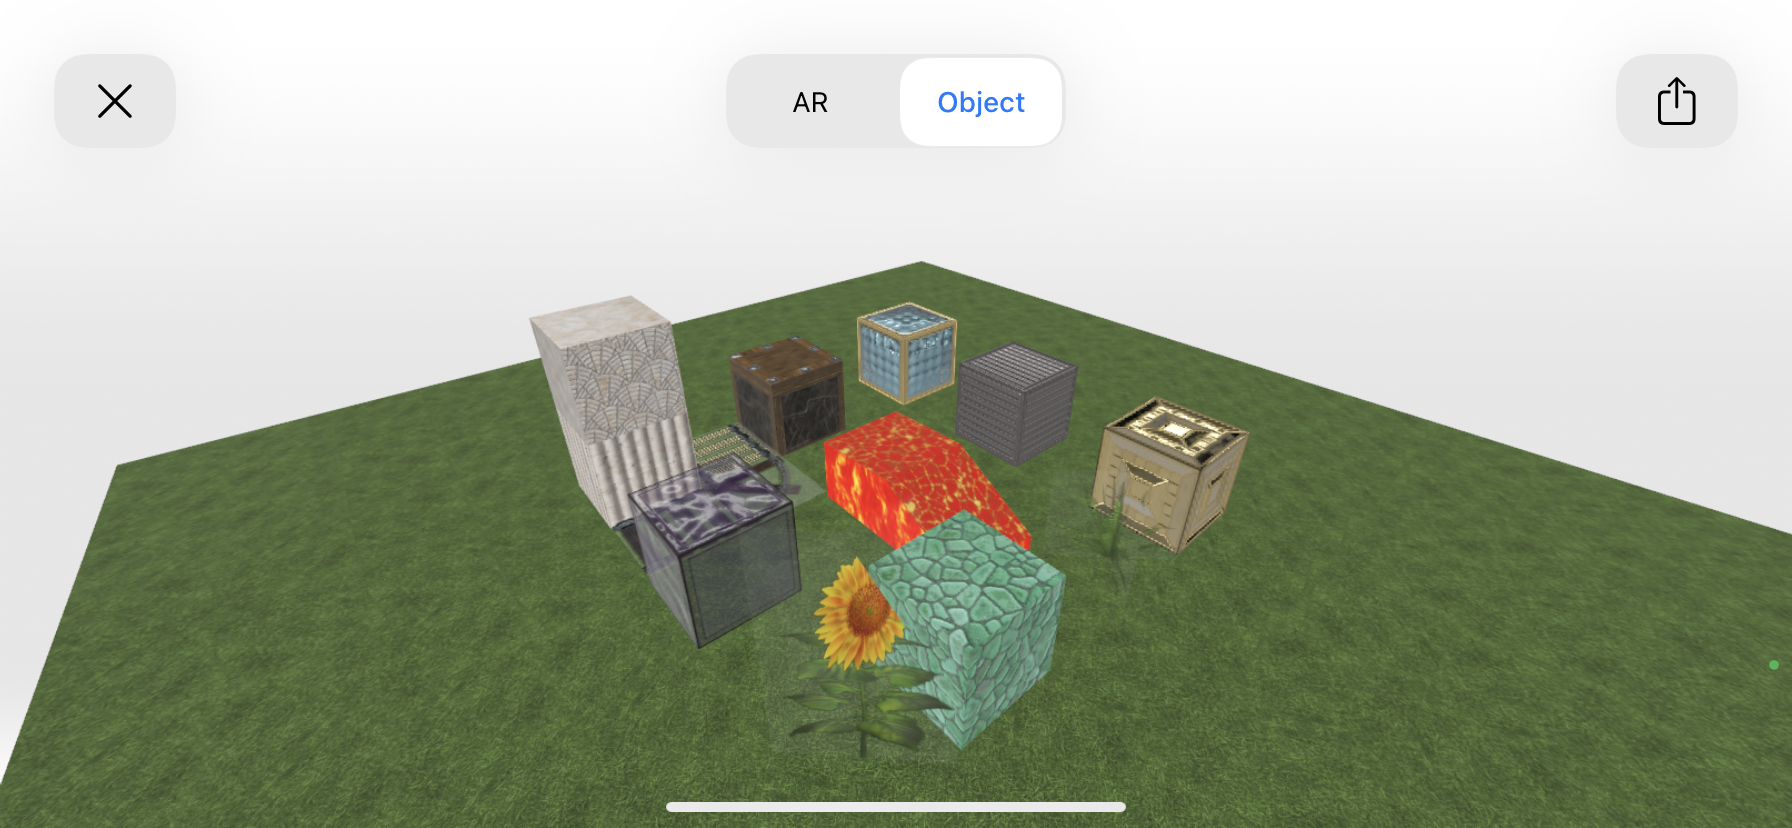
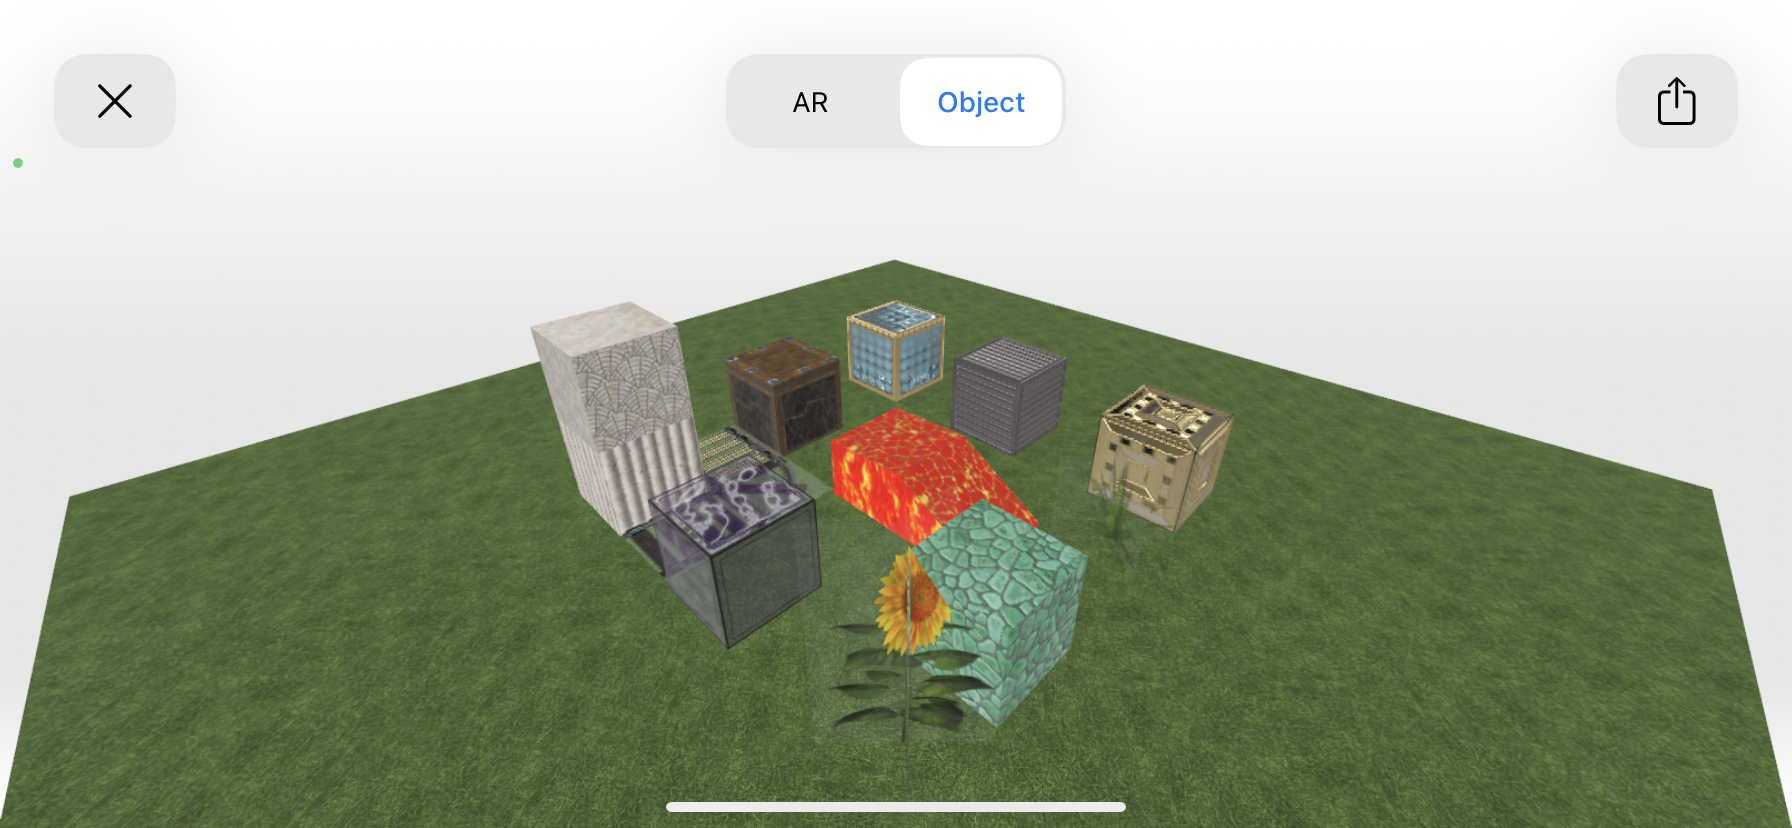
Use Y flip in Sketchfab model, retest USDZ tests and analyze

diff --git a/README.md b/README.md
@@ -1,7 +1,7 @@
 # McUsd
 Simple [USD](https://graphics.pixar.com/usd/release/index.html) scene geometry with a variety of [UsdPreviewSurface](https://graphics.pixar.com/usd/release/spec_usdpreviewsurface.html) materials applied, for casual material and light testing.
 
-Download this repository and then load the McUsd.usda file in the models directory into your favorite USD file viewer. Or, [**view the model in your browser**](https://skfb.ly/oxyUE) through Sketchfab. Or, have an iPhone or iPad? Try out [**Sketchfab's USDZ translation**](https://erich.realtimerendering.com/mcusd/McUsd_sketchfab.usdz). You'll have to shrink it down in AR mode (pinch, on an iPhone) - each block is a meter in size!
+Download this repository and then load the McUsd.usda file in the models directory into your favorite USD file viewer. Or, [**view the model in your browser**](https://skfb.ly/oxyUE) through Sketchfab. Or, have an iPhone or iPad? Try out [**Sketchfab's USDZ translation**](https://erich.realtimerendering.com/mcusd/McUsd_sketchfab_y_flip.usdz). You'll have to shrink it down in AR mode (pinch, on an iPhone) - each block is a meter in size!
 
 The "Mc" is for Minecraft, not McDonalds. Short URL for this page: http://bit.ly/gitmcusd
 
@@ -214,57 +214,75 @@ I did notice that if I set the orientation of the light to about 126 degrees, I 
 However, I get the exact same flipped-vertically normals when I uploaded "McUsd_normal_normals.usda", [see it here](https://skfb.ly/oxD9r)
 , with the light angle set to 126 degrees and zoomed in on the prismarine. Since these are the same, I believe what is happening is that Sketchfab is ignoring the scale and bias values set for the normal maps. See the "[Observations section](#observations) earlier for more on (my) normal map texture scaling confusion.
 
-Sketchfab lets you download different translations of your model. I downloaded the [Sketchfab USDZ translation](https://erich.realtimerendering.com/mcusd/McUsd_sketchfab.usdz) - click that link on an iPhone to view it. The camera position set in Sketchfab is exported. The default Sketchfab light sources are not. From what I can tell, the texture scaling on the lava is removed, for good or ill.
+I manually edited [my original, uploaded file](https://skfb.ly/oxyUE), (tediously) setting the material for every block to use the "Flip green (-Y)" property for the normal map. This fixed the normals for this model:
+
+![Sketchfab Y flip](/images/sketchfab_y_flip.png "Sketchfab Y flip")
+
+Sketchfab lets you download different translations of your model. I downloaded the [Sketchfab USDZ translation](https://erich.realtimerendering.com/mcusd/McUsd_sketchfab_y_flip.usdz) - click that link on an iPhone to view it. The camera position set in Sketchfab is exported. The default Sketchfab light sources are not. From what I can tell, the emittance texture scaling on the lava is removed, for good or ill.
 
 ## Apple iPhone
 
 On Safari and Chrome (and perhaps other browsers), if you are using an iPhone or iPad and click on a ".usdz" extension file, the file displays in an viewer called AR Quick Look. [Some examples are here](https://developer.apple.com/augmented-reality/quick-look/).
 
-The [Sketchfab USDZ translation](https://erich.realtimerendering.com/mcusd/McUsd_sketchfab.usdz) mentioned above can also be viewed - click the link to see it (other phones and non-Safari browsers will just download the file instead; if you know how to hook the usdz file to immediately view, let me know).
+The [Sketchfab USDZ translation with Y flip](https://erich.realtimerendering.com/mcusd/McUsd_sketchfab_y_flip.usdz) mentioned above can also be viewed - click the link to see it (other phones and non-Safari browsers will just download the file instead; if you know how to hook the usdz file to immediately view, let me know).
 
 This viewer has two modes: AR and Object, shown at the top. "Object" lets you view the model in isolation. In this mode, one finger rotates, two finger pinch dollies (aka "zooms", but not really) the camera in and out. There appears to be no way to change the center of focus. Here's an example:
 
 ![iPhone Object view](/images/iphone_object.png "iPhone Object view")
 
-Understandably, the camera setting in the Sketchfab usdz file is not used in either mode. If you look closely, there is some "ghosting" around the sunflower, an area around it where the cut-away parts of the texture should have no effect, but instead leave a faint white trace.
+Understandably, the camera setting in the Sketchfab usdz file is not used in either mode. If you look very closely, there is some "ghosting" around the sunflower, an area around it where the cut-away parts of the texture should have no effect, but instead leave an extremely faint white trace.
 
 Try AR mode. Because this model is actually to scale, the blocks are each 1 meter across by default, so the model is likely much larger than where you are. You made need to first move your phone or tablet around so that it understands your environment before placing the model. After this, use a two-finger pinch gesture to shrink the model down and make it fit your environment. One finger lets you move the model horizontally. Here is the scene shrunk to about 10% and viewed in place, using "AR":
 
 ![iPhone AR view](/images/iphone_ar.png "iPhone AR view")
 
-In both views you can see that the cutout sunflower head has rendering problems. If you rotate the view, various parts of the sunflower disappear and appear. My guess is that this artifact is likely caused by cutouts being rendered by z-sorting them with other objects in the scene, but I can't say I fully understand. The "ghosting" visible in Object mode is not present in AR mode.
+In both views you can see that the cutout sunflower head has rendering problems. If you rotate the view, various parts of the sunflower disappear and appear. My guess is that this artifact is likely caused by cutouts being rendered as always replacing the z-buffer value (even if fully transparent) and by z-sorting them with other objects in the scene, but I can't say I fully understand. The "ghosting" visible in Object mode is not present in AR mode.
 
-It's also hard to tell, but it seems like the "light from below" reversed normal problem might be visible in the AR view. See the [Observations section](#observations).
+It's also a little hard to tell, but the "light from below" reversed normal problem is visible in the AR view if you use the unaltered [Sketchfab USDZ translation](https://erich.realtimerendering.com/mcusd/McUsd_sketchfab.usdz):
+
+![iPhone AR view, no Y flip](/images/iphone_ar_no_y_flip.png "iPhone AR view, no Y flip")
+
+Also for comparison, here's the object view of the Sketchfab model without Y flipping:
+
+![iPhone Object view, no Y flip](/images/iphone_object_no_y_flip.png "iPhone object view, no Y flip")
+
+What this means is that the Quick Look viewer appears to properly pay attention to scale and bias values in the model file.
+
+See the [Observations section](#observations) for more about this problem.
 
 ## Apple Mac
 
-If you download the [Sketchfab USDZ file](https://erich.realtimerendering.com/mcusd/McUsd_sketchfab.usdz) and double-click it on a Mac, the Preview app will show it:
+If you download the [Sketchfab USDZ file with Y flip](https://erich.realtimerendering.com/mcusd/McUsd_sketchfab_y_flip.usdz) and double-click it on a Mac, the Preview app will show it:
 
 ![Mac Preview](/images/mac_preview.png "Mac Preview")
 
-Lights and camera are not translated. Overall the content looks good, with no z-buffer problems with cutouts. However, note that the bumps on the right side of the prismarine block look lit from below, probably because of the missing scale/bias on the normal map.
+Lights and camera are not translated. There is some problem with some grass triangles; my guess is that it had to do with the normal map texture, but I haven't explored the problem. Otherwise, the content looks good, with no z-buffer problems with cutouts.
 
-This view shows the problem with the texturing on the grassy plain:
+The "no Y flip" version looks like this:
 
-![Mac Preview grass](/images/mac_preview_grass.png "Mac Preview grass")
+![Mac Preview, no Y flip](/images/mac_preview_no_y_flip.png "Mac Preview, no Y flip")
+
+Here the prismarine and iron blocks' bumps look reversed, showing that this viewer properly pays attention to bias and scale, at least on a limited basis.
 
 ## Autodesk USD Browser Viewer
 
 Autodesk [open-sourced their USD browser viewer](https://www.keanw.com/2022/02/autodesk-open-sources-web-based-usd-viewing-implementation.html). Demos and Github repository [here](https://autodesk-forks.github.io/USD/). It's a bit of a challenge to build (I failed; turns out the build doesn't quite work for Windows yet, as of 8/31/2022, but that should change soon). Happily there's a site where you can simply drag and drop a USDZ file onto the page and view it.
 
-Dropping the [Sketchfab USDZ translation](https://erich.realtimerendering.com/mcusd/McUsd_sketchfab.usdz) onto [**Autodesk's USDZ test page**](https://autodesk-forks.github.io/USD/usd_for_web_demos/test.html) gives this result:
+Dropping the [Sketchfab USDZ translation](https://erich.realtimerendering.com/mcusd/McUsd_sketchfab_y_flip.usdz) onto [**Autodesk's USDZ test page**](https://autodesk-forks.github.io/USD/usd_for_web_demos/test.html) gives this result:
 
 ![Autodesk web viewer](/images/autodesk_web.png "Autodesk web viewer")
 
-The camera and lights are not translate. The main artifact is that cutout billboards make parts of the sunflower and fern disappear. Rotate the view and the sunflower cutouts will make parts of the purple transparent glass block disappear. My guess is that opacityThreshold is not being used to help control whether the z-buffer is written to for cutouts.
+The camera and lights are not translated. The main artifact is that cutout billboards make parts of the sunflower and fern disappear. Rotate the view and the sunflower cutouts will make parts of the purple transparent glass block disappear. My guess is that opacityThreshold is not being used to help control whether the z-buffer is written to for cutouts.
 
 There is a related [three.js demo repository](https://github.com/autodesk-forks/USD/tree/gh-pages/usd_for_web_demos), and their [material implementation](https://github.com/autodesk-forks/USD/blob/gh-pages/usd_for_web_demos/ThreeJsRenderDelegate.js#L217) is easy to examine.Pierre-Olivier Nahoum has made [an open-source USDZ Loader wrapper](https://github.com/ponahoum/three-usdz-loader) based on this viewer.
 
-Dropping the [Sketchfab USDZ translation](https://erich.realtimerendering.com/mcusd/McUsd_sketchfab.usdz) onto [**Nahoum's USDZ test site**](https://www.usdz-viewer.net/) gives this result:
+Dropping the [Sketchfab USDZ translation](https://erich.realtimerendering.com/mcusd/McUsd_sketchfab_y_flip.usdz) onto [**Nahoum's USDZ test site**](https://www.usdz-viewer.net/) gives this result:
 
 ![Nahoum Three.js USDZ Loader](/images/nahoum.png "Nahoum Three.js USDZ Loader")
 
-The render is a bit washed out compared to Autodesk's original, but that's just a matter of adjusting the lighting in the code. Again, the cutouts hide parts of the plants and from a different view make the transparent block disappear.
+The render is a bit washed out compared to Autodesk's original, but that's just a matter of adjusting the lighting in the code. Again, the cutouts hide parts of the plants and from a different view make the transparent block disappear. Also, the lighting on the (randomly rotated) grass tiles noticeably varies. My guess is that there might be some small normal map or other texture problem with the grass, though it's not clear to me whether it's a problem with the data (perhaps the texture contains unnormalized normals?) or the viewer itself. I've seen this sort of patterning before with the grass texture's random repetition (which is why I include grass in this scene), though usually the differences are more pronounced (and the buggy viewers are now fixed).
+
+In testing with the unaltered Sketchfab USDZ file, I found that these viewers appear to pay attention to the normal map bias and scale, at least for this one (simple Y flipped) test.
 
 ## Blender
 

diff --git a/unit_tests/cubes_r_normals/README.md b/unit_tests/cubes_r_normals/README.md
@@ -32,6 +32,12 @@ Lit from right:
 
 ![UsdView 0.22.8, lit from right](/unit_tests/cubes_r_normals/images/crn_usdview_light_from_right.png "UsdView 0.22.8, lit from right")
 
+## Use in other packages
+
+The rendering of the right view can be fixed in [Sketchfab](https://sketchfab.com/), for example, by selecting the right cube and then changing its material's normal map by checking the "Flip green (-y)" checkbox beneath it. You will get [this result](https://skfb.ly/oxQtt).
+
+Flipping the Y axis of the normal map in this way is sometimes called the DirectX format, vs. the unflipped (Y up) OpenGL format. So, Pixar USD appears to use the OpenGL (Y up) format by default.
+
 ## Technical details
 
 Normal map textures use the raw RGB values in an image to generate a local surface normal. I generated the three normal map textures from the same heightfield texture:
@@ -43,9 +49,9 @@ Black is low, white is high.
 Using the [NormalMap Online page](https://cpetry.github.io/NormalMap-Online/), I dropped this texture into the leftmost area and then set the "Strength" to 1.5. From experimentation, I found that if I used the default strength of 2.5, normals would be generated that point into the surface, away from the camera. (I don't think this should ever happen with the data input, but hey it's a quick and dirty converter.)
 
 I converted this bump map into three normal map textures:
-* r_normal_map.png - created by using the "Invert R" setting in the NormalMap Online tool. USD's default normal map.
-* r_normal_map_reversed_x.png - created by unchecking all "Invert" settings. This reverses the X direction for the texture.
-* r_normal_map_reversed_y.png - created by checking "R" and "G" in the "Invert" settings. This reverses the Y direction.for the texture.
+* r_normal_map.png - created by using the "Invert R" setting in the NormalMap Online tool. USD's default normal map, the "OpenGL" format.
+* r_normal_map_reversed_x.png - created by unchecking all "Invert" settings. This reverses the X direction for the texture. Not commonly seen, but possible.
+* r_normal_map_reversed_y.png - created by checking "R" and "G" in the "Invert" settings. This reverses the Y direction, giving the "DirectX" format.
 
 These are the textures applied to the cubes. The left cube has r_normal_map.png applied to all faces, middle has r_normal_map_reversed_x.png, right has r_normal_map_reversed_y.png. If you look at each, the "no bump here" color is always (127,127,255), a distinctive light blue that converts (as expected) to (just about - more on that below) the normal (0,0,1), pointing outward from the surface.
 
